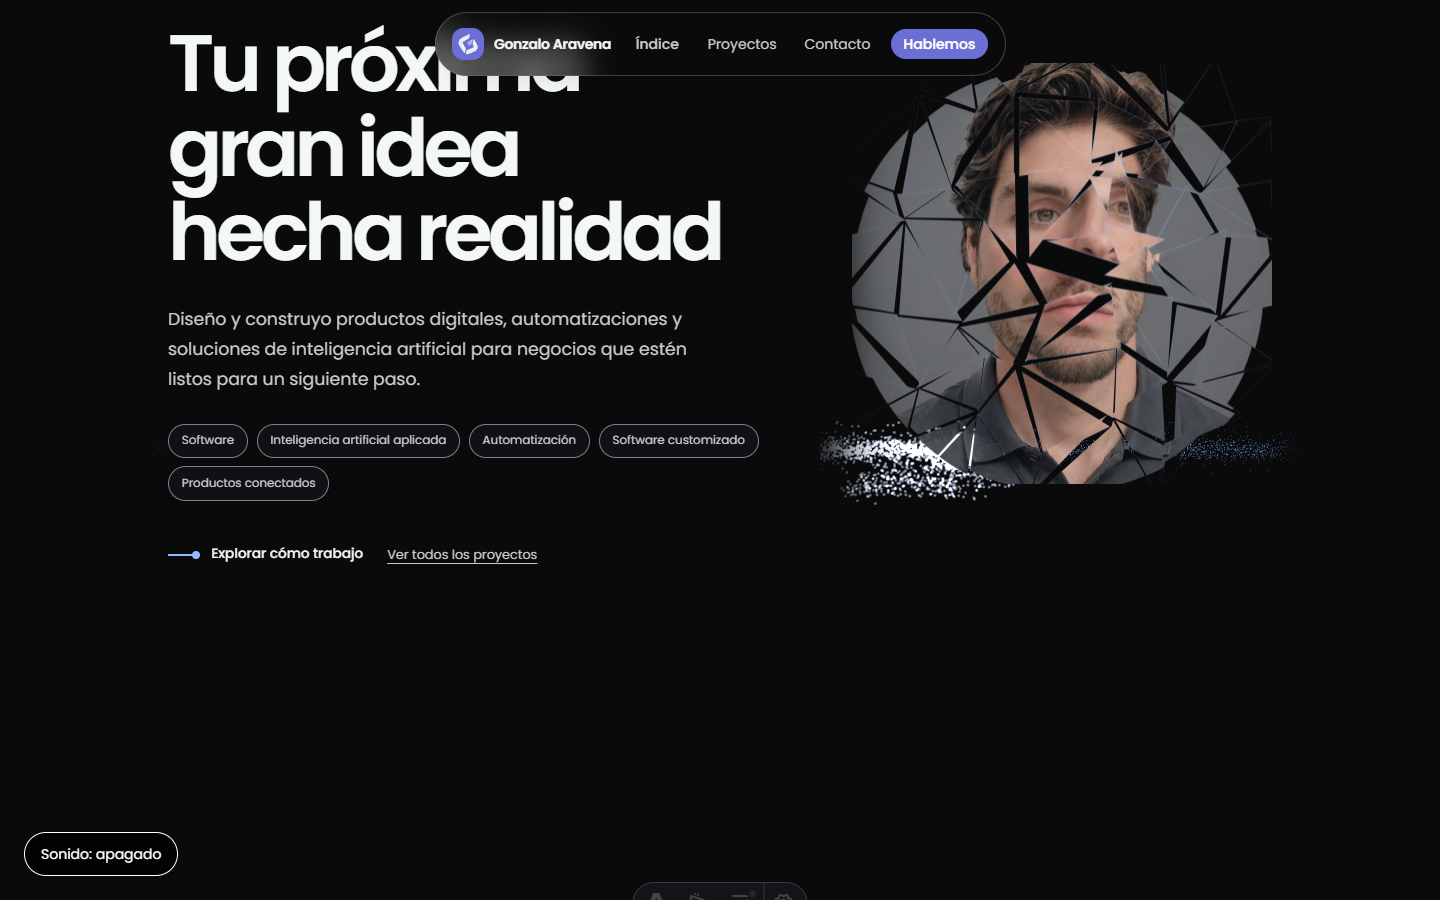
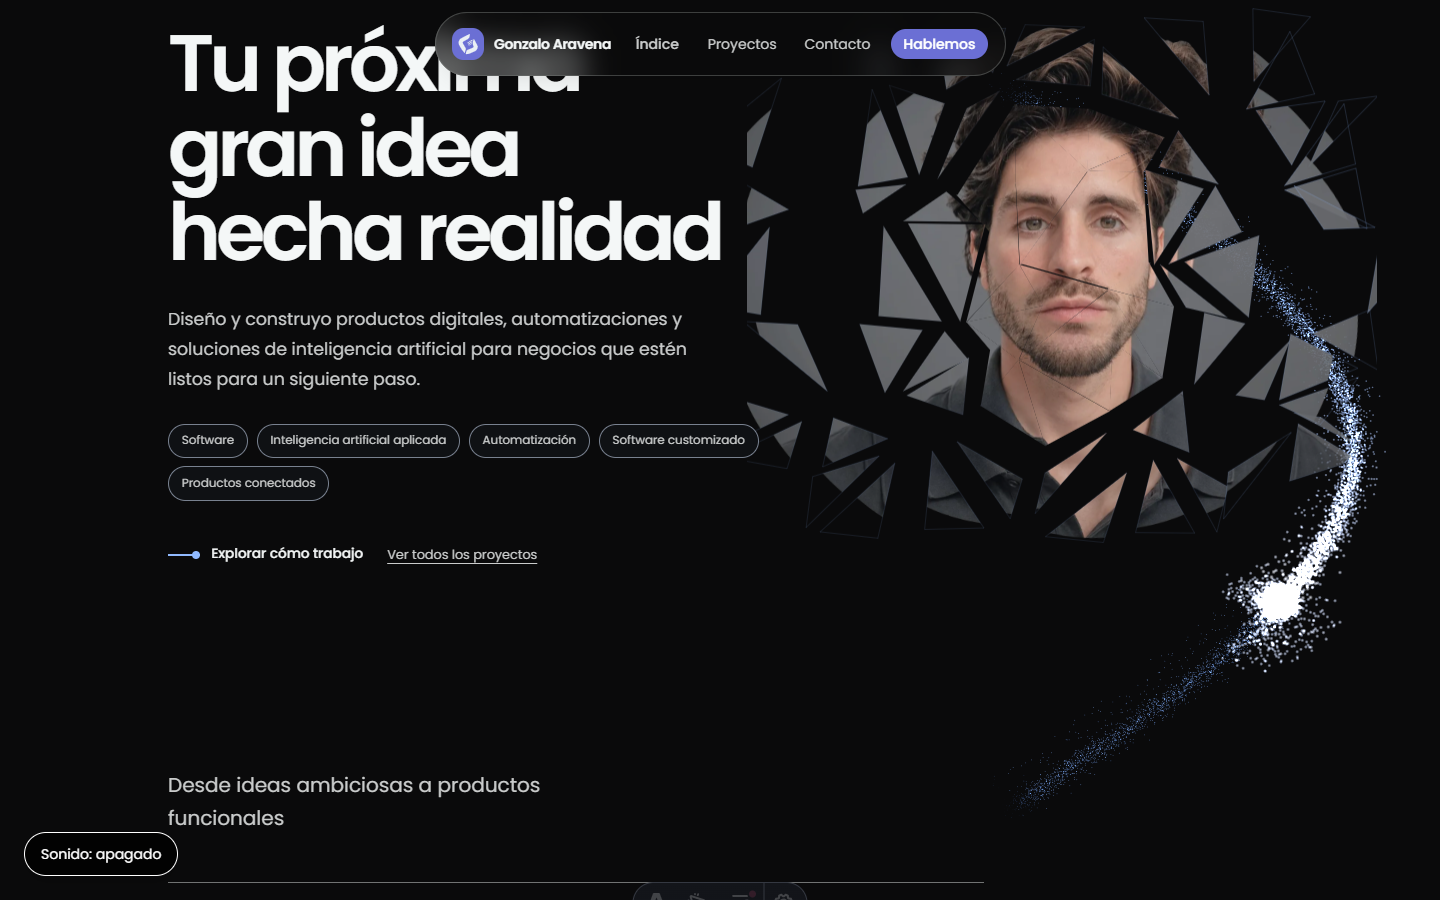
fix: continuidad del hilo y dispersión periférica del retrato

diff --git a/src/components/journey/heroPortrait.ts b/src/components/journey/heroPortrait.ts
@@ -156,8 +156,8 @@ function mountPortrait(figure: HTMLElement): () => void {
     const rect = figure.getBoundingClientRect()
     size = Math.max(1, Math.round(rect.width))
     dpr = Math.min(window.devicePixelRatio || 1, 2)
-    canvas.width = Math.round(size * dpr)
-    canvas.height = Math.round(size * dpr)
+    canvas.width = Math.round(size * 1.5 * dpr)
+    canvas.height = Math.round(size * 1.5 * dpr)
     const coarse = window.matchMedia("(pointer: coarse)").matches
     shards = buildShards(image, coarse || size < 320 ? 5 : 7)
     dirty = true
@@ -170,7 +170,7 @@ function mountPortrait(figure: HTMLElement): () => void {
   }
 
   const onPointer = (event: PointerEvent) => {
-    const rect = canvas.getBoundingClientRect()
+    const rect = figure.getBoundingClientRect()
     const x = (event.clientX - rect.left) / rect.width
     const y = (event.clientY - rect.top) / rect.height
     target.pointerX = x
@@ -187,20 +187,30 @@ function mountPortrait(figure: HTMLElement): () => void {
     const s = size
     const t = gsap.ticker.time - timeOrigin
     ctx.setTransform(dpr, 0, 0, dpr, 0, 0)
-    ctx.clearRect(0, 0, s, s)
+    ctx.clearRect(0, 0, s * 1.5, s * 1.5)
+    ctx.translate(s * 0.25, s * 0.25)
 
     // Las juntas siguen visibles en reposo: el retrato conserva su identidad
     // fragmentada antes de que el scroll o el cursor separen más las piezas.
-    const scatter = Math.max(0.016, state.intro, state.scroll * state.scroll)
+    const scatter = Math.max(state.intro, state.scroll * state.scroll)
 
     const radius = 0.24
     for (const shard of shards) {
       // Dispersión radial (intro + scroll) con giro propio.
-      const reach = scatter * (0.18 + shard.seed * 0.5)
-      let ox = shard.dx * reach + (shard.seed - 0.5) * scatter * 0.12
-      let oy = shard.dy * reach - scatter * shard.seed * 0.1
-      let rot = scatter * (shard.seed - 0.5) * 1.4
-      let scale = 1 - scatter * 0.25 * shard.seed
+      // Un núcleo estable mantiene ojos/nariz/boca ensamblados. El corte se
+      // abre progresivamente hacia el contorno, con más vuelo en los laterales.
+      const distance = Math.hypot((shard.cx - 0.5) * 1.2, shard.cy - 0.47)
+      const edge = gsap.utils.clamp(0, 1, (distance - 0.23) / 0.25)
+      const touchesFace = [shard.a, shard.b, shard.c].some(
+        ([x, y]) => x > 0.35 && x < 0.65 && y > 0.2 && y < 0.78
+      )
+      const fringe = edge * edge * (touchesFace ? 0.02 : 1)
+      const energy = 0.16 * fringe + scatter * (0.035 + fringe * 0.48)
+      const reach = energy * (0.6 + shard.seed * 0.7)
+      let ox = shard.dx * reach * (1 + fringe * 0.9)
+      let oy = shard.dy * reach * 0.65
+      let rot = energy * (shard.seed - 0.5) * 1.8
+      let scale = 1 - energy * 0.3 * shard.seed
 
       // Magnetismo: el fragmento se acerca al cursor y se eleva.
       let lift = 0
@@ -208,7 +218,10 @@ function mountPortrait(figure: HTMLElement): () => void {
         const vx = state.pointerX - shard.cx
         const vy = state.pointerY - shard.cy
         const dist = Math.hypot(vx, vy)
-        const falloff = Math.exp(-((dist / radius) ** 2)) * state.magnet
+        const falloff =
+          Math.exp(-((dist / radius) ** 2)) *
+          state.magnet *
+          (0.06 + fringe * 0.94)
         const pull = Math.min(dist, 0.07) * falloff
         if (dist > 0.0001) {
           ox += (vx / dist) * pull
@@ -224,7 +237,7 @@ function mountPortrait(figure: HTMLElement): () => void {
       ox += Math.sin(t * 1.3 + shard.seed * 12) * breathe
       oy += Math.cos(t * 1.1 + shard.seed * 9) * breathe
 
-      const alpha = 1 - Math.min(1, scatter * (0.35 + shard.seed * 0.75))
+      const alpha = 1 - Math.min(1, energy * (0.35 + shard.seed * 0.75))
       if (alpha <= 0.01) continue
 
       const cx = shard.cx * s
@@ -256,7 +269,7 @@ function mountPortrait(figure: HTMLElement): () => void {
       ctx.drawImage(image, 0, 0, s, s)
       ctx.restore()
 
-      const seam = Math.min(1, lift * 0.9 + scatter * 1.6)
+      const seam = Math.min(1, lift * 0.9 + energy * 1.6)
       if (seam > 0.02) {
         ctx.lineWidth = 0.75
         ctx.strokeStyle = `rgba(${THREAD_RGB}, ${0.55 * seam})`

diff --git a/src/components/journey/manifesto.ts b/src/components/journey/manifesto.ts
@@ -12,7 +12,15 @@ function mountManifesto() {
   const media = gsap.matchMedia()
   media.add("(prefers-reduced-motion: no-preference)", () => {
     const splits: SplitText[] = []
-    const timelines: gsap.core.Timeline[] = []
+    const timeline = gsap.timeline({
+      scrollTrigger: {
+        trigger: root,
+        start: "top 65%",
+        end: "bottom 90%",
+        scrub: 0.8,
+        invalidateOnRefresh: true,
+      },
+    })
     root
       .querySelectorAll<HTMLElement>("[data-manifesto-phrase]")
       .forEach((phrase, index) => {
@@ -21,54 +29,54 @@ function mountManifesto() {
           aria: "auto",
         })
         splits.push(split)
-        const timeline = gsap.timeline({
-          scrollTrigger: {
-            trigger: phrase,
-            start: "top 92%",
-            end: "top 54%",
-            scrub: 0.45,
-            invalidateOnRefresh: true,
-          },
-        })
         // Tres gestos vinculados al significado. El scroll permite deshacerlos.
         if (index === 0) {
-          timeline.from(split.chars, {
-            x: (i) => Math.sin(i * 2.399) * 36,
-            y: (i) => Math.cos(i * 2.399) * 26,
-            rotation: (i) => Math.sin(i * 2.399) * 18,
-            opacity: 0.12,
-            stagger: { amount: 0.3, from: "center" },
-            duration: 1,
-            ease: "power3.out",
-          })
+          timeline.from(
+            split.chars,
+            {
+              x: (i) => Math.sin(i * 2.399) * 36,
+              y: (i) => Math.cos(i * 2.399) * 26,
+              rotation: (i) => Math.sin(i * 2.399) * 18,
+              opacity: 0.12,
+              stagger: { amount: 0.3, from: "center" },
+              duration: 1,
+              ease: "power2.inOut",
+            },
+            index * 0.95
+          )
         } else if (index === 1) {
-          timeline.from(split.words, {
-            rotationX: -75,
-            yPercent: 65,
-            opacity: 0.12,
-            transformOrigin: "50% 100%",
-            stagger: 0.15,
-            duration: 1,
-            ease: "power3.out",
-          })
+          timeline.from(
+            split.words,
+            {
+              rotationX: -75,
+              yPercent: 65,
+              opacity: 0.12,
+              transformOrigin: "50% 100%",
+              stagger: 0.15,
+              duration: 1,
+              ease: "power2.inOut",
+            },
+            index * 0.95
+          )
         } else {
-          timeline.from(split.chars, {
-            yPercent: 105,
-            scaleY: 0.6,
-            opacity: 0.12,
-            transformOrigin: "50% 100%",
-            stagger: 0.025,
-            duration: 0.7,
-            ease: "power4.out",
-          })
+          timeline.from(
+            split.chars,
+            {
+              yPercent: 105,
+              scaleY: 0.6,
+              opacity: 0.12,
+              transformOrigin: "50% 100%",
+              stagger: 0.025,
+              duration: 0.7,
+              ease: "power2.inOut",
+            },
+            index * 0.95
+          )
         }
-        timelines.push(timeline)
       })
     return () => {
-      timelines.forEach((timeline) => {
-        timeline.scrollTrigger?.kill()
-        timeline.kill()
-      })
+      timeline.scrollTrigger?.kill()
+      timeline.kill()
       splits.forEach((split) => split.revert())
     }
   })

diff --git a/src/experience/thread/runtime.ts b/src/experience/thread/runtime.ts
@@ -45,6 +45,28 @@ export function createRuntime() {
   }
 }
 
+/** El hilo ocupa el espacio editorial libre: nunca se tapa con paneles DOM.
+ * La misma curva se usa al entrar y durante el handoff del capítulo anterior. */
+function editorialPath(
+  chapter: string,
+  extent: ThreadExtent,
+  points: Vector3[]
+) {
+  if (chapter !== "hero" && chapter !== "manifesto") return
+  const halfWidth = extent.x / (extent.portrait ? 0.41 : 0.4) / 2
+  const halfHeight = extent.portrait ? extent.offsetY * 5 : extent.y / 0.52
+  points.forEach((point, i) => {
+    const u = i / (points.length - 1)
+    const arc = Math.sin(u * Math.PI)
+    const x = extent.portrait
+      ? 0.965 - arc * 0.025
+      : chapter === "hero"
+        ? 0.4 + arc * 0.48
+        : 0.53 + arc * 0.4
+    point.set(x * halfWidth, (0.8 - u * 1.6) * halfHeight - extent.offsetY, 0)
+  })
+}
+
 export function updateThread(
   runtime: ReturnType<typeof createRuntime>,
   chapterId: string | null,
@@ -62,6 +84,7 @@ export function updateThread(
   const profile = chapterThreadProfile(chapter)
 
   sampleForm(form, progress, extent.x, extent.y, target.points)
+  editorialPath(chapter, extent, target.points)
   target.color.set(profile.lineColor ?? form.color)
   target.head.set(profile.head)
   target.lightMix = profile.scheme === "light" ? 1 : 0
@@ -84,6 +107,7 @@ export function updateThread(
 
     // En p=1 el hilo ya converge a la curva, color y energía de entrada (p=0) del capítulo siguiente.
     sampleForm(nextForm, 0, extent.x, extent.y, nextTarget.points)
+    editorialPath(nextChapter, extent, nextTarget.points)
     for (let i = 0; i < target.points.length; i++) {
       target.points[i].lerp(nextTarget.points[i], handoff)
     }

diff --git a/docs/plan/evidencias/T-A43/README.md b/docs/plan/evidencias/T-A43/README.md
@@ -4,20 +4,20 @@ Pedido humano del 23/10/2026. Rama `t/A43-hero-retrato-manifiesto`.
 
 ## Resultado
 
-- Retrato existente de 44.912 bytes, fragmentado con canvas 2D: hasta 98 triángulos desktop / 50 táctil, menos fragmentos transparentes descartados. Ensamblado inicial, dispersión reversible por scroll y atracción local al cursor.
+- Retrato existente de 44.912 bytes, fragmentado con canvas 2D: hasta 98 triángulos desktop / 50 táctil, menos fragmentos transparentes descartados. Núcleo facial compacto y contorno con dispersión radial marcada, especialmente lateral. Ensamblado inicial, dispersión reversible por scroll y atracción local al cursor. Canvas ampliado un 25 % por lado para alojar fragmentos exteriores.
 - Composición en dos columnas desktop y retrato superior mobile; chips y jerarquía tipográfica renovados.
-- Fondos opacos locales en los bloques de lectura: el hilo conserva su renderer global y permanece visible fuera del texto. La regla global de transparencia de capítulos no afecta estos bloques internos.
-- GSAP + SplitText + ScrollTrigger: ensamblado de caracteres, despliegue de palabras y construcción escalonada. Sin dependencias nuevas. Se elimina “Así toma forma en Vibo”.
+- Bloques de lectura totalmente transparentes, sin fondos ni sombras. El hilo conserva su renderer global: una curva editorial en el espacio libre a la derecha evita el texto. La curva también se aplica al destino del handoff para mantener continuidad al entrar en cada capítulo.
+- GSAP + SplitText + ScrollTrigger: ensamblado de caracteres, despliegue de palabras y construcción escalonada. Una única timeline con scrub de 0,8 s y capítulo de 190svh mantiene el bloque sticky mientras avanza la secuencia; el modo reducido vuelve al flujo normal sin altura extra. Sin dependencias nuevas. Se elimina “Así toma forma en Vibo”.
 - Movimiento reducido: imagen HTML y frases sin dividir, sin listeners del retrato. Limpieza al navegar y restauración al volver.
 
 ## Verificación
 
 `npm run check`: lint, typecheck, build y presupuestos de assets. Build conserva el aviso de chunks mayores a 500 kB.
 
-`node docs/plan/evidencias/T-A43/verify.mjs` (servidor local en puerto 3010 y Chrome instalado): capturas 1440×900 y 390×844; scroll, magnetismo desktop, ausencia de overflow horizontal, navegación home → proyectos → atrás, cambio dinámico de movimiento reducido y ausencia del enlace eliminado. Cero errores JavaScript en ambos tamaños. Resultados en `checks.json`.
+`node docs/plan/evidencias/T-A43/verify.mjs` (servidor local en puerto 3010 y Chrome instalado): capturas 1440×900 y 390×844; scroll, magnetismo desktop, ausencia de overflow horizontal y comprobación de fondos transparentes sin sombras, navegación home → proyectos → atrás, cambio dinámico de movimiento reducido y ausencia del enlace eliminado. Cero errores JavaScript en ambos tamaños. Resultados en `checks.json`.
 
 Muestreo de 90 intervalos rAF durante scroll del hero: mediana 16,7 ms (~60 FPS), p95 16,8 ms en desktop y mobile emulado con CPU ×4. No equivale a un benchmark de dispositivos físicos ni certifica el recorrido completo. La pieza nueva es canvas 2D: no agrega draw calls o triángulos WebGL al Stage. Su imagen pesa 43,9 KiB en ambos tamaños; no agrega GLB ni texturas GPU.
 
-Las capturas `*-hero.png`, `*-fragments.png`, `*-phrase-{1,2,3}.png` y `*-reduced.png` corresponden al inicio, dispersión parcial, las frases resueltas y la alternativa estática. El script recorre las posiciones reales del DOM para que sea reproducible en cada viewport.
+Las capturas `*-hero.png`, `*-fragments.png`, `*-phrase-{1,2,3}.png` y `*-reduced.png` corresponden al inicio, dispersión parcial, el avance de la secuencia de frases y la alternativa estática. El script recorre las posiciones reales del DOM para que sea reproducible en cada viewport.
 
-Pendiente: sensaciones en teléfono físico y aprobación estética humana. No se ejecutó QA multidispositivo del resto de escenas ni medición de fugas GPU (no modificadas).
+Pendiente: sensaciones en teléfono físico y aprobación estética humana. No se ejecutó QA multidispositivo del resto de escenas ni medición de fugas GPU (no se modificaron materiales, geometrías ni ciclo de montaje).

diff --git a/docs/plan/tablero.md b/docs/plan/tablero.md
@@ -119,7 +119,7 @@
 
 | ID | Tarea y criterio de terminado | Depende de | Zona | Estado |
 | --- | --- | --- | --- | --- |
-| T-A43 | Retrato triangular con scroll y magnetismo, pulido de cabecera/chips, protección del texto frente al hilo y tres animaciones GSAP del manifiesto; quitar enlace a Vibo. Pedido humano 2026-10-23, registrado listo y tomado en esta sesión. | T-A12, T-A13 | `src/components/journey/{Hero*,heroPortrait.ts,Manifesto*,manifesto.ts}`, evidencia y tablero | en revisión (rama `t/A43-hero-retrato-manifiesto`; evidencia en `evidencias/T-A43/`; aprobación visual humana pendiente) |
+| T-A43 | Retrato triangular con scroll y magnetismo, pulido de cabecera/chips, protección del texto frente al hilo y tres animaciones GSAP del manifiesto; quitar enlace a Vibo. Pedido humano 2026-10-23, registrado listo y tomado en esta sesión. | T-A12, T-A13 | `src/components/journey/{Hero*,heroPortrait.ts,Manifesto*,manifesto.ts}`, `src/experience/thread/runtime.ts` (recorrido espacial del hilo, ampliado por feedback humano), evidencia y tablero | en revisión (rama `t/A43-hero-retrato-manifiesto`; feedback aplicado: núcleo compacto, laterales dispersos, hilo visible sin fondos y timeline prolongada; evidencia `evidencias/T-A43/`) |
 
 ## Bloqueos y preguntas
 
